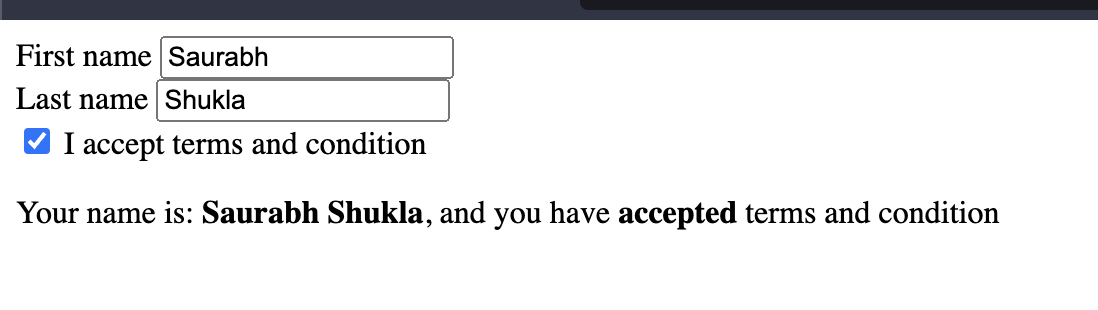
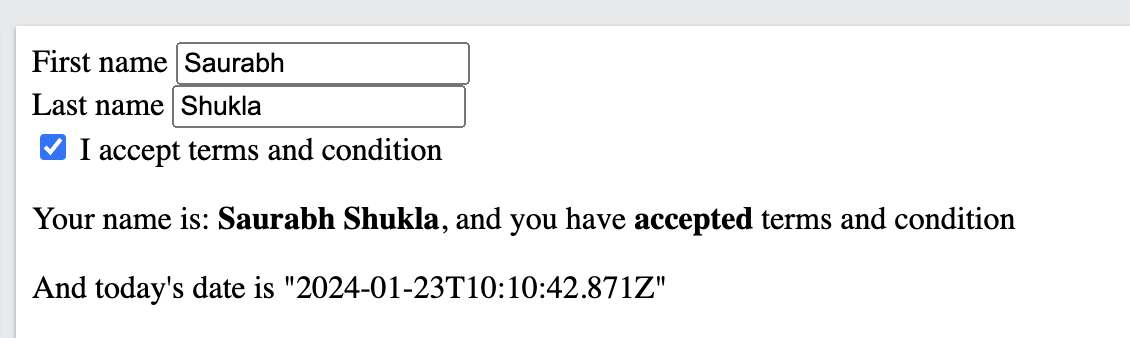
Updates

Changed region(s): [[0.0, 0.0, 1.0, 1.0]]

diff --git a/WebTechnology/07/readme.md b/WebTechnology/07/readme.md
@@ -19,7 +19,7 @@
     </style>
   </head>
 
-  <body ng-app>
+  <body ng-app="app" ng-controller="ctrl">
     <section>
       <form>
         <div>
@@ -55,9 +55,19 @@
         have <span>{{ terms ? ' accepted' : ' not accepted' }}</span> terms and
         condition
       </p>
+
+      <p>And today's date is {{ date }}</p>
     </section>
 
     <script src="https://ajax.googleapis.com/ajax/libs/angularjs/1.8.3/angular.min.js"></script>
+
+    <script>
+    	const app = angular.module("app", []);
+
+        app.controller("ctrl", ($scope) => {
+        	$scope.date = new Date();
+        });
+    </script>
   </body>
 </html>
 ```
@@ -65,3 +75,4 @@
 ##### Output
 
 ![01 output](./01.JPG)
+![02 output](./02.JPG)

diff --git a/WebTechnology/06/readme.md b/WebTechnology/06/readme.md
@@ -1,0 +1,22 @@
+#### Events
+
+##### Code
+
+```
+const event = require('events');
+
+const emitter = new event.EventEmitter();
+
+const event1Handler = () => console.log('Event 1 called!!');
+const event2Handler = () => console.log('Event 2 called!!');
+
+emitter.on('event1', event1Handler);
+emitter.on('event2', event2Handler);
+
+emitter.emit('event1');
+emitter.emit('event2');
+```
+
+##### Output
+
+![01 output](./01.JPG)
